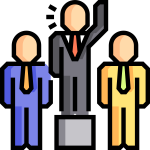
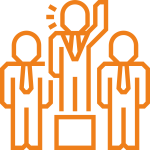
The cancel button is not properly align in "iPad" view (resolved)

diff --git a/frontend/views/site/e-partners.php b/frontend/views/site/e-partners.php
@@ -25,7 +25,7 @@ use yii\helpers\Url;
             <div class="col-md-4">
                 <div class="eP-benefit">
                     <div class="eP-icon">
-                        <img src="<?= Url::to('@eyAssets/images/pages/dsa/Tech-driven-platform.png') ?>">
+                        <img src="<?= Url::to('@eyAssets/images/pages/dsa/Tech-Driven-Platform.png') ?>">
                     </div>
                     <h3>Tech Driven Platform</h3>
                     <p>We embrace change and innovation for developing creative solutions for all your needs.</p>
@@ -34,7 +34,7 @@ use yii\helpers\Url;
             <div class="col-md-4">
                 <div class="eP-benefit">
                     <div class="eP-icon">
-                        <img src="<?= Url::to('@eyAssets/images/pages/dsa/dashboard1.png') ?>">
+                        <img src="<?= Url::to('@eyAssets/images/pages/dsa/Personalized-Dashboard.png') ?>">
                     </div>
                     <h3>Personalized Dashboard</h3>
                     <p>With a personalized dashboard, you will be be able to customized it as per your needs and requirements.</p>
@@ -43,7 +43,7 @@ use yii\helpers\Url;
             <div class="col-md-4">
                 <div class="eP-benefit">
                     <div class="eP-icon">
-                        <img src="<?= Url::to('@eyAssets/images/pages/dsa/transparency.png') ?>">
+                        <img src="<?= Url::to('@eyAssets/images/pages/dsa/Transparent-Process.png') ?>">
                     </div>
                     <h3>Transparent Process </h3>
                     <p>Our operations are open, honest and straight forward.</p>
@@ -52,7 +52,7 @@ use yii\helpers\Url;
             <div class="col-md-4">
                 <div class="eP-benefit">
                     <div class="eP-icon">
-                        <img src="<?= Url::to('@eyAssets/images/pages/dsa/Attractive-incentives.png') ?>">
+                        <img src="<?= Url::to('@eyAssets/images/pages/dsa/Attractive-Incentives.png') ?>">
                     </div>
                     <h3>Attractive Incentives</h3>
                     <p>Attractive incentives will be given on your every sale.</p>
@@ -318,7 +318,7 @@ $this->registerCss('
 }
 .eP-benefit{
     text-align: center;
-    box-shadow: 17px 17px 0px -11px #00a0e4;
+    box-shadow: 17px 17px 0px -11px #eee;
     min-height: 240px;
     margin-bottom: 30px;
     display: flex;

diff --git a/frontend/views/organizations/profile-components/reviews.php b/frontend/views/organizations/profile-components/reviews.php
@@ -454,7 +454,7 @@ $(document).on('click','#load_more_btn',function(e){
     page = page + 1;
     getUserReviews(limit=3, page=page)
 });
-function reviewStats(overall_rating{
+function reviewStats(overall_rating){
     let reviewStat = ` <div class="row">
         <div class="col-md-12 col-sm-4">
             <div class="rs-main">
@@ -607,7 +607,7 @@ $('.collegeLink').on('click', function (){
      }
      // removeActive();
      $(this).parent().addClass('cActive');
- })
+ });
 JS;
 $this->registerJs($script);
 $this->registerCssFile('@backendAssets/global/plugins/bootstrap-toastr/toastr.min.css');

diff --git a/frontend/views/accounts/signup/organization.php b/frontend/views/accounts/signup/organization.php
@@ -68,7 +68,6 @@ $form = ActiveForm::begin([
                     'allowExtensions' => true,
                     'preferredCountries' => ['in'],
                     'nationalMode' => false,
-//                    'separateDialCode' => true
                 ]
             ]);
             ?>

diff --git a/frontend/views/organizations/profile-components/loans.php b/frontend/views/organizations/profile-components/loans.php
@@ -6,10 +6,6 @@ use yii\helpers\Html;
 use yii\helpers\ArrayHelper;
 use borales\extensions\phoneInput\PhoneInput;
 
-//if(!$isAjax) {
-//    echo $this->render("profile-header");
-//}
-//print_r($isAjax);
 ?>
     <div class="container">
         <div class="set-sticky">
